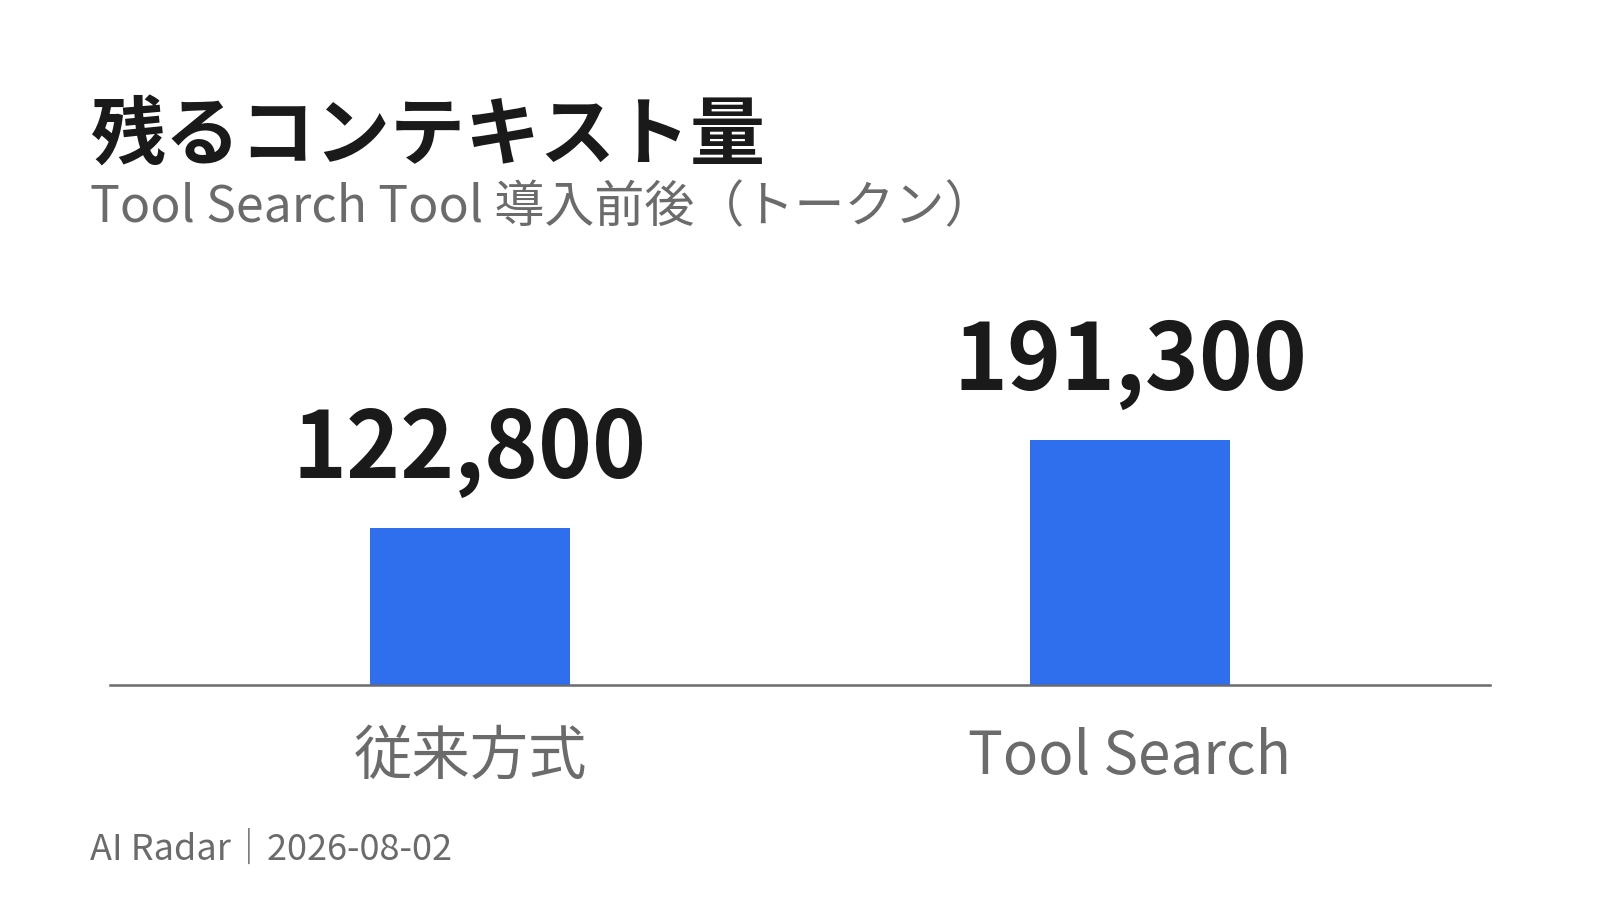
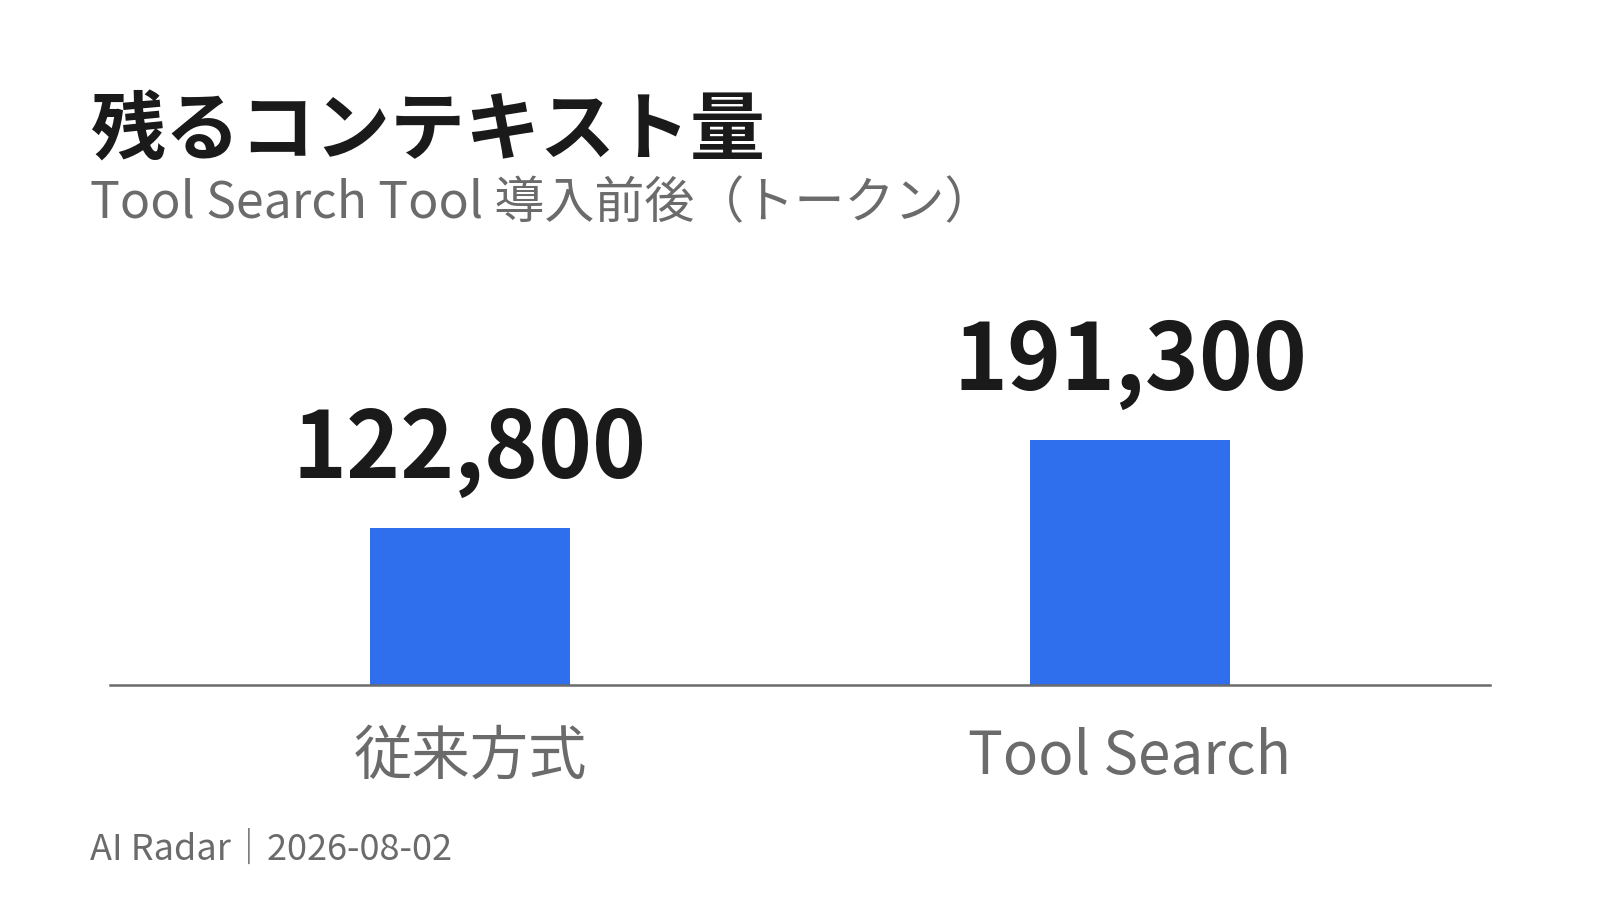
カードのタイトルとサブタイトルの間隔を修正

Changed region(s): [[0.0625, 0.0933, 0.4375, 0.2489], [0.4688, 0.1867, 0.5938, 0.2489], [0.4062, 0.0933, 0.5, 0.1867]]

diff --git a/scripts/make_card.py b/scripts/make_card.py
@@ -77,11 +77,15 @@ def base_canvas(title, subtitle, date_str):
 
     # スマホでは1600px幅が実質350px程度まで縮む（約0.22倍）。
     # 12px相当で読ませるには元が55pt前後必要なので、全体的に大きめに取っている。
-    ax.text(90, H - 100, title, fontproperties=BOLD, fontsize=54,
+    title_fs, sub_fs = 54, 36
+    title_top = H - 95
+
+    ax.text(90, title_top, title, fontproperties=BOLD, fontsize=title_fs,
             color=INK, va="top", ha="left")
     if subtitle:
-        ax.text(90, H - 182, subtitle, fontproperties=REG, fontsize=36,
-                color=SUB, va="top", ha="left")
+        # タイトルの下端から余白を空けて置く。タイトルを大きくしたら自動で下がる
+        ax.text(90, title_top - title_fs * 1.55, subtitle, fontproperties=REG,
+                fontsize=sub_fs, color=SUB, va="top", ha="left")
     ax.text(90, 50, f"AI Radar｜{date_str}", fontproperties=REG, fontsize=26,
             color=SUB, va="center", ha="left")
     return fig, ax
@@ -160,7 +164,7 @@ def draw_map(ax, groups):
     # タイトルと補足の行間。グループ間の余白がこれより広くなるよう描画領域を取る
     gap = int(name_fs * 1.35)
 
-    top, bottom = H - 285, 105
+    top, bottom = H - 320, 105
     step = (top - bottom) / max(len(groups), 1)
 
     for i, g in enumerate(groups):
